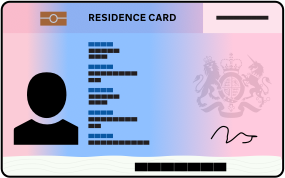
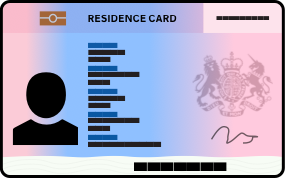
Update residence document images

diff --git a/app/views/prototypes/PYCA-1048/views/questions/residence-sticker-type.html b/app/views/prototypes/PYCA-1048/views/questions/residence-sticker-type.html
@@ -2,7 +2,7 @@
 
 {% block content %}
 <div class="govuk-grid-row">
-  <div class="govuk-grid-column-two-thirds">
+  <div class="govuk-grid-column-one-half">
 
     <form method="post">
 
@@ -61,12 +61,12 @@
 
   </div>
 
-  <div class="govuk-grid-column-one-third">
+  <div class="govuk-grid-column-one-half">
 
-    <figure class="figure residence-card">
-      <img src="{{ basePath }}/assets/images/residence-document-type.png" srcset="{{ basePath }}/assets/images/residence-document-type.png, {{ basePath }}/assets/images/residence-document-type@2x.png 1.5x" alt="Example residence document">
+    <figure class="figure residence-card residence-card--example">
+      <img src="{{ basePath }}/assets/images/residence-document-permanent-focus.png" srcset="{{ basePath }}/assets/images/residence-document-permanent-focus.png, {{ basePath }}/assets/images/residence-document-permanent-focus@2x.png 1.5x" alt="Example residence document showing “Type of document”">
       <figcaption class="figure__caption residence-card__caption" aria-hidden="true">
-        Example residence document
+        Example of where these words can be found
       </figcaption>
     </figure>
 

diff --git a/app/views/prototypes/PYCA-1048/views/questions/residence-sticker-issued.html b/app/views/prototypes/PYCA-1048/views/questions/residence-sticker-issued.html
@@ -2,7 +2,7 @@
 
 {% block content %}
 <div class="govuk-grid-row">
-  <div class="govuk-grid-column-two-thirds">
+  <div class="govuk-grid-column-one-half">
 
     <form method="post">
 
@@ -51,12 +51,12 @@
 
   </div>
 
-  <div class="govuk-grid-column-one-third">
+  <div class="govuk-grid-column-one-half">
 
-    <figure class="figure residence-card">
-      <img src="{{ basePath }}/assets/images/residence-document-issued.png" srcset="{{ basePath }}/assets/images/residence-document-issued.png, {{ basePath }}/assets/images/residence-document-issued@2x.png 1.5x" alt="Example residence document">
+    <figure class="figure residence-card residence-card--example">
+      <img src="{{ basePath }}/assets/images/residence-document-issued-focus.png" srcset="{{ basePath }}/assets/images/residence-document-issued-focus.png, {{ basePath }}/assets/images/residence-document-issued-focus@2x.png 1.5x" alt="Example residence document showing “Place of issue”">
       <figcaption class="figure__caption residence-card__caption" aria-hidden="true">
-        Example residence document
+        Example of where these words can be found
       </figcaption>
     </figure>
 

diff --git a/app/views/prototypes/PYCA-1048/views/questions/residence-permit-type.html b/app/views/prototypes/PYCA-1048/views/questions/residence-permit-type.html
@@ -51,7 +51,7 @@
   <div class="govuk-grid-column-one-half">
 
     <figure class="figure residence-card residence-card--example">
-      <img src="{{ basePath }}/assets/images/settlement-focus.png" srcset="{{ basePath }}/assets/images/settlement-focus.png, {{ basePath }}/assets/images/settlement-focus@2x.png 1.5x" alt="Example residence permit showing “Settlement”">
+      <img src="{{ basePath }}/assets/images/brp-settlement-focus.png" srcset="{{ basePath }}/assets/images/brp-settlement-focus.png, {{ basePath }}/assets/images/brp-settlement-focus@2x.png 1.5x" alt="Example residence permit showing “Settlement”">
       <figcaption class="figure__caption residence-card__caption" aria-hidden="true">
         Example of where these words can be found
       </figcaption>

diff --git a/app/views/prototypes/PYCA-1048/views/questions/residence-permit-sub-type.html b/app/views/prototypes/PYCA-1048/views/questions/residence-permit-sub-type.html
@@ -49,7 +49,7 @@
   <div class="govuk-grid-column-one-half">
 
     <figure class="figure residence-card residence-card--example">
-      <img src="{{ basePath }}/assets/images/residence-focus.png" srcset="{{ basePath }}/assets/images/residence-focus.png, {{ basePath }}/assets/images/residence-focus@2x.png 1.5x" alt="Example residence permit showing “Residence”">
+      <img src="{{ basePath }}/assets/images/brp-residence-focus.png" srcset="{{ basePath }}/assets/images/brp-residence-focus.png, {{ basePath }}/assets/images/brp-residence-focus@2x.png 1.5x" alt="Example residence permit showing “Residence”">
       <figcaption class="figure__caption residence-card__caption" aria-hidden="true">
         Example of where these words can be found
       </figcaption>

diff --git a/app/views/prototypes/PYCA-1048/views/questions/residence-sticker-blue.html b/app/views/prototypes/PYCA-1048/views/questions/residence-sticker-blue.html
@@ -2,7 +2,7 @@
 
 {% block content %}
 <div class="govuk-grid-row">
-  <div class="govuk-grid-column-two-thirds">
+  <div class="govuk-grid-column-one-half">
 
     <form method="post">
 
@@ -39,9 +39,9 @@
 
   </div>
 
-  <div class="govuk-grid-column-one-third">
+  <div class="govuk-grid-column-one-half">
 
-    <figure class="figure residence-card">
+    <figure class="figure residence-card residence-card--large">
       <img src="{{ basePath }}/assets/images/residence-document.png" srcset="{{ basePath }}/assets/images/residence-document.png, {{ basePath }}/assets/images/residence-document@2x.png 1.5x" alt="Example residence document">
       <figcaption class="figure__caption residence-card__caption" aria-hidden="true">
         Example residence document

diff --git a/app/views/prototypes/PYCA-1048/views/questions/residence-sticker-pink.html b/app/views/prototypes/PYCA-1048/views/questions/residence-sticker-pink.html
@@ -2,7 +2,7 @@
 
 {% block content %}
 <div class="govuk-grid-row">
-  <div class="govuk-grid-column-two-thirds">
+  <div class="govuk-grid-column-one-half">
 
     <form method="post">
 
@@ -39,9 +39,9 @@
 
   </div>
 
-  <div class="govuk-grid-column-one-third">
+  <div class="govuk-grid-column-one-half">
 
-    <figure class="figure residence-card">
+    <figure class="figure residence-card residence-card--large">
       <img src="{{ basePath }}/assets/images/residence-document.png" srcset="{{ basePath }}/assets/images/residence-document.png, {{ basePath }}/assets/images/residence-document@2x.png 1.5x" alt="Example residence document">
       <figcaption class="figure__caption residence-card__caption" aria-hidden="true">
         Example residence document

diff --git a/app/views/prototypes/PYCA-1048/views/questions/residence-sticker-purple-or-yellow.html b/app/views/prototypes/PYCA-1048/views/questions/residence-sticker-purple-or-yellow.html
@@ -2,7 +2,7 @@
 
 {% block content %}
 <div class="govuk-grid-row">
-  <div class="govuk-grid-column-two-thirds">
+  <div class="govuk-grid-column-one-half">
 
     <form method="post">
 
@@ -39,9 +39,9 @@
 
   </div>
 
-  <div class="govuk-grid-column-one-third">
+  <div class="govuk-grid-column-one-half">
 
-    <figure class="figure residence-card">
+    <figure class="figure residence-card residence-card--large">
       <img src="{{ basePath }}/assets/images/residence-document.png" srcset="{{ basePath }}/assets/images/residence-document.png, {{ basePath }}/assets/images/residence-document@2x.png 1.5x" alt="Example residence document">
       <figcaption class="figure__caption residence-card__caption" aria-hidden="true">
         Example residence document

diff --git a/app/views/prototypes/PYCA-1048/views/questions/residence-sticker-yellow.html b/app/views/prototypes/PYCA-1048/views/questions/residence-sticker-yellow.html
@@ -2,7 +2,7 @@
 
 {% block content %}
 <div class="govuk-grid-row">
-  <div class="govuk-grid-column-two-thirds">
+  <div class="govuk-grid-column-one-half">
 
     <form method="post">
 
@@ -39,9 +39,9 @@
 
   </div>
 
-  <div class="govuk-grid-column-one-third">
+  <div class="govuk-grid-column-one-half">
 
-    <figure class="figure residence-card">
+    <figure class="figure residence-card residence-card--large">
       <img src="{{ basePath }}/assets/images/residence-document.png" srcset="{{ basePath }}/assets/images/residence-document.png, {{ basePath }}/assets/images/residence-document@2x.png 1.5x" alt="Example residence document">
       <figcaption class="figure__caption residence-card__caption" aria-hidden="true">
         Example residence document

diff --git a/app/assets/sass/components/_residence-card.scss b/app/assets/sass/components/_residence-card.scss
@@ -7,9 +7,9 @@
   text-align: center;
 
   img {
-    max-width: 100%;
     margin-left: auto;
     margin-right: auto;
+    max-width: 100%;
   }
 
   &__caption {
@@ -25,9 +25,13 @@
     width: $image-width-small * 1px;
   }
 
+  &--large,
+  &--example {
+    max-width: $image-width * 1px;
+  }
+
   &--example {
     $offset: percentage(122/$image-width);
-    max-width: $image-width * 1px;
 
     #{$block}__caption {
       margin-left: auto;
